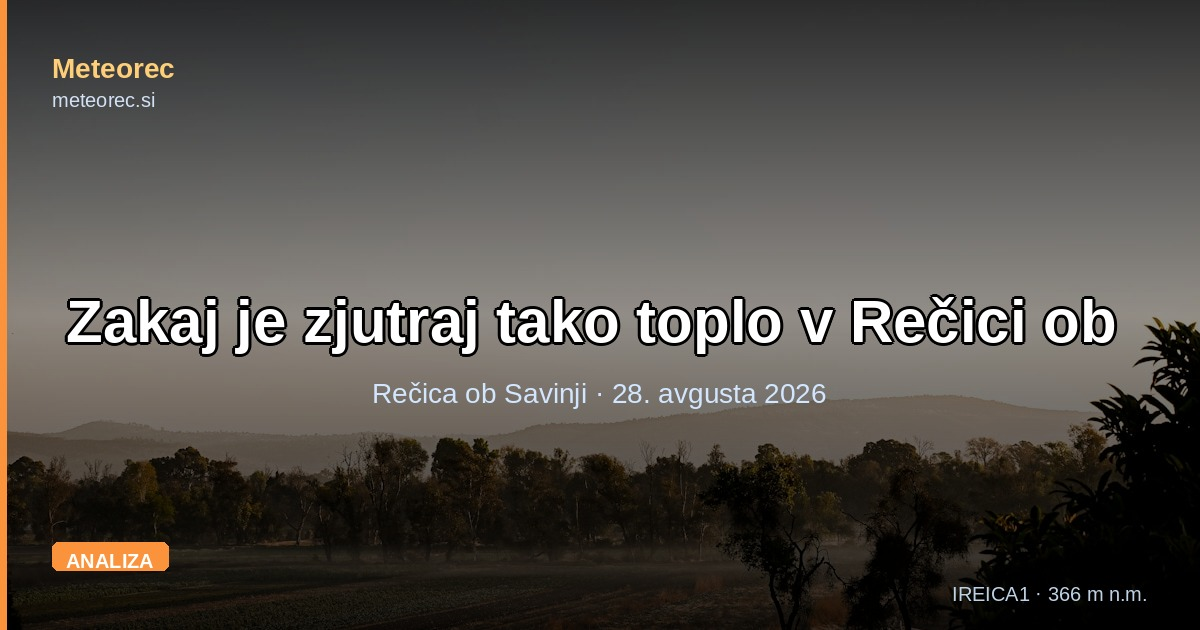
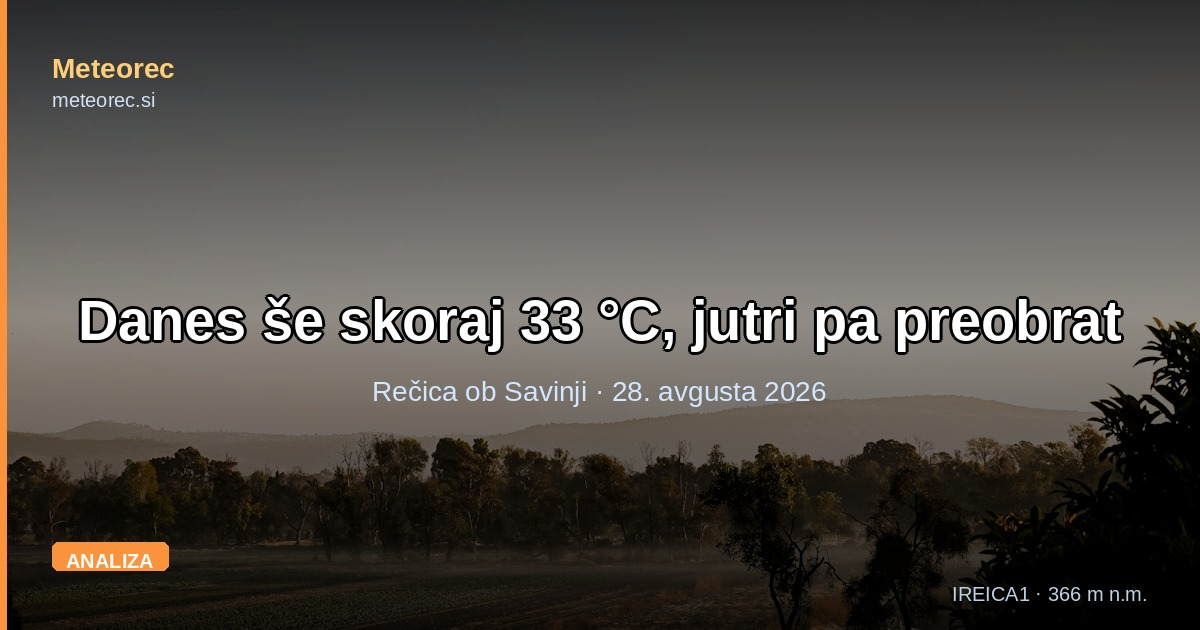
Nadomesti besedilo članka z lektorirano različico
Nov naslov/lead/odseki po lekturi (krajše, bolj naravne povedi), ohranjen
isti slug/URL. Ponovno vpisana notranja povezava na /temperatura/ in na
julijski članek o podobnem preobratu, ki ju je lektura sicer odstranila.
Ponovno pognan wire_all() (blog.json, sitemap, RSS, teme, sorodni članki)
in prigenerirana nova OG slika za spremenjeni naslov.

Changed region(s): [[0.0308, 0.4524, 0.9558, 0.573], [0.3083, 0.6032, 0.7092, 0.6635]]

diff --git a/blog/zakaj-je-zjutraj-tako-toplo-v-recici-ob-savinji-0828.html b/blog/zakaj-je-zjutraj-tako-toplo-v-recici-ob-savinji-0828.html
@@ -10,19 +10,19 @@
   gtag('config', 'G-LE8PJ1HR8B');
 </script>
 <meta name="viewport" content="width=device-width, initial-scale=1.0">
-<title>Zakaj je zjutraj tako toplo v Rečici ob Savinji? | Meteorec</title>
+<title>Danes še skoraj 33 °C, jutri pa preobrat | Meteorec</title>
 <link rel="canonical" href="https://meteorec.si/blog/zakaj-je-zjutraj-tako-toplo-v-recici-ob-savinji-0828.html">
 <link rel="alternate" hreflang="sl" href="https://meteorec.si/blog/zakaj-je-zjutraj-tako-toplo-v-recici-ob-savinji-0828.html">
 <link rel="alternate" hreflang="x-default" href="https://meteorec.si/blog/zakaj-je-zjutraj-tako-toplo-v-recici-ob-savinji-0828.html">
-<meta name="description" content="Zakaj je v Rečici ob Savinji že navsezgodaj toplo in vlažno, kaj prinaša vročinski vrh danes ter zakaj sobota prinese oster padec temperature do nedelje.">
+<meta name="description" content="Na Rečici ob Savinji je bilo že zgodaj zjutraj nenavadno toplo in soparno. Danes sledi vrhunec vročine pri 32,7 °C, v soboto pa padec za več kot osem stopinj.">
 <meta name="keywords" content="vreme, napoved, temperaturni trend, IREICA1, Zgornja Savinjska dolina">
 <meta name="robots" content="index, follow, max-image-preview:large">
 <meta name="author" content="Filip Eremita">
 <meta property="og:type" content="article">
 <meta property="og:url" content="https://meteorec.si/blog/zakaj-je-zjutraj-tako-toplo-v-recici-ob-savinji-0828.html">
 <meta property="og:site_name" content="Meteorec">
-<meta property="og:title" content="Zakaj je zjutraj tako toplo v Rečici ob Savinji?">
-<meta property="og:description" content="Zakaj je v Rečici ob Savinji že navsezgodaj toplo in vlažno, kaj prinaša vročinski vrh danes ter zakaj sobota prinese oster padec temperature do nedelje.">
+<meta property="og:title" content="Danes še skoraj 33 °C, jutri pa preobrat: na Rečici ob Savinji bo občutno hladneje">
+<meta property="og:description" content="Na Rečici ob Savinji je bilo že zgodaj zjutraj nenavadno toplo in soparno. Danes sledi vrhunec vročine pri 32,7 °C, v soboto pa padec za več kot osem stopinj.">
 <meta property="og:image" content="https://meteorec.si/og/zakaj-je-zjutraj-tako-toplo-v-recici-ob-savinji-0828.jpg">
 <meta property="og:image:width" content="1200">
 <meta property="og:image:height" content="630">
@@ -31,15 +31,15 @@
 <meta property="article:author" content="Filip Eremita">
 <meta property="article:section" content="Analiza">
 <meta name="twitter:card" content="summary_large_image">
-<meta name="twitter:title" content="Zakaj je zjutraj tako toplo v Rečici ob Savinji?">
-<meta name="twitter:description" content="Zakaj je v Rečici ob Savinji že navsezgodaj toplo in vlažno, kaj prinaša vročinski vrh danes ter zakaj sobota prinese oster padec temperature do nedelje.">
+<meta name="twitter:title" content="Danes še skoraj 33 °C, jutri pa preobrat: na Rečici ob Savinji bo občutno hladneje">
+<meta name="twitter:description" content="Na Rečici ob Savinji je bilo že zgodaj zjutraj nenavadno toplo in soparno. Danes sledi vrhunec vročine pri 32,7 °C, v soboto pa padec za več kot osem stopinj.">
 <meta name="twitter:image" content="https://meteorec.si/og/zakaj-je-zjutraj-tako-toplo-v-recici-ob-savinji-0828.jpg">
 <script type="application/ld+json">
 {
   "@context": "https://schema.org",
   "@type": "BlogPosting",
-  "headline": "Zakaj je zjutraj tako toplo v Rečici ob Savinji?",
-  "description": "Zakaj je v Rečici ob Savinji že navsezgodaj toplo in vlažno, kaj prinaša vročinski vrh danes ter zakaj sobota prinese oster padec temperature do nedelje.",
+  "headline": "Danes še skoraj 33 °C, jutri pa preobrat: na Rečici ob Savinji bo občutno hladneje",
+  "description": "Na Rečici ob Savinji je bilo že zgodaj zjutraj nenavadno toplo in soparno. Danes sledi vrhunec vročine pri 32,7 °C, v soboto pa padec za več kot osem stopinj.",
   "image": { "@type": "ImageObject", "url": "https://meteorec.si/og/zakaj-je-zjutraj-tako-toplo-v-recici-ob-savinji-0828.jpg", "width": 1200, "height": 630 },
   "datePublished": "2026-08-28",
   "dateModified": "2026-08-28",
@@ -58,7 +58,7 @@
   "itemListElement": [
     { "@type": "ListItem", "position": 1, "name": "Meteorec", "item": "https://meteorec.si/" },
     { "@type": "ListItem", "position": 2, "name": "Blog", "item": "https://meteorec.si/blog/" },
-    { "@type": "ListItem", "position": 3, "name": "Zakaj je zjutraj tako toplo v Rečici ob Savinji?" }
+    { "@type": "ListItem", "position": 3, "name": "Danes še skoraj 33 °C, jutri pa preobrat: na Rečici ob Savinji bo občutno hladneje" }
   ]
 }
 </script>
@@ -87,20 +87,20 @@
   </header>
 
   <nav class="crumbs" aria-label="Drobtine">
-    <a href="/">Meteorec</a> › <a href="/blog/">Blog</a> › Zakaj je zjutraj tako toplo v Rečici ob Savinji?
+    <a href="/">Meteorec</a> › <a href="/blog/">Blog</a> › Danes še skoraj 33 °C, jutri pa preobrat: na Rečici ob Savinji bo občutno hladneje
   </nav>
 
   <article>
     <div class="stn-badge"><span></span> IREICA1 · Rečica ob Savinji · Analiza</div>
-    <h1>Zakaj je zjutraj tako toplo v Rečici ob Savinji?</h1>
+    <h1>Danes še skoraj 33 °C, jutri pa preobrat: na Rečici ob Savinji bo občutno hladneje</h1>
     <p class="post-meta">28. avgusta 2026 · Filip Eremita</p>
 
-    <p class="lead">Ob 7.50 zjutraj postaja IREICA1 kaže <strong>18,8 °C</strong> ob 95-odstotni vlažnosti — za avgustovsko jutro v Rečici ob Savinji nenavadno toplo. Nočni minimum je bil le <strong>16,5 °C</strong>, čeprav dolina ob jasnem nebu ponoči praviloma shladi precej niže. Danes nas čaka vrh vročine pri 32,7 °C, potem pa oster preobrat: sobota prinese padec na 24,3 °C, nedelja pa delen povratek toplote na 27,4 °C.</p>
+    <p class="lead">Kdor je danes zjutraj stopil ven, je hitro opazil, da svežega avgustovskega jutra tokrat ni bilo. Ob 7.50 je postaja IREICA1 na Rečici ob Savinji izmerila 18,8 °C, vlažnost pa je bila kar 95-odstotna. Ponoči se je temperatura spustila le do 16,5 °C. Čez dan bo še precej bolj vroče, saj naj bi se ogrelo do 32,7 °C. A vročina ne bo trajala dolgo — že v soboto sledi občutna ohladitev.</p>
 
     <div class="stat-grid">
       <div class="stat-card c-cool">
         <div class="sc-label">Trenutna temperatura</div>
-        <div class="sc-val">18,9</div>
+        <div class="sc-val">20,6</div>
         <div class="sc-sub">°C · postaja IREICA1</div>
       </div>
       <div class="stat-card c-rain">
@@ -110,7 +110,7 @@
       </div>
       <div class="stat-card c-green">
         <div class="sc-label">Vlažnost</div>
-        <div class="sc-val">95</div>
+        <div class="sc-val">91</div>
         <div class="sc-sub">%</div>
       </div>
       <div class="stat-card c-dry">
@@ -132,33 +132,46 @@
       <figcaption>Ilustrativna fotografija. Foto: Winniepix (Openverse, licenca BY).</figcaption>
     </figure>
 
-    <span class="section-label">01 — toplo jutro</span>
-    <h2 id="nocni-minimum">Nočni minimum le 16,5 °C</h2>
-    <p>Skozi celo noč je vlažnost na postaji ostajala med 95 in 99 %, rosišče pa je ves čas sledilo temperaturi na manj kot stopinjo razlike — zrak je bil praktično nasičen z vlago. Temperatura je od polnoči (18,8 °C) počasi padala do najnižje vrednosti 16,5 °C okoli 6. ure zjutraj, nato pa je s prvim soncem že spet stekla navzgor.</p>
-    <p>Veter je bil vso noč šibek in je pihal pretežno z juga do jugozahoda (okoli 180–230°) — smer, iz katere v dolino pogosto priteka toplejši in vlažnejši zrak pred spremembo vremena.</p>
+    <span class="section-label">01 — ponoči brez ohlajanja</span>
+    <h2 id="ponoci-brez-ohlajanja">Ponoči se skoraj ni ohladilo</h2>
+    <p>Vso noč je bila vlažnost zelo visoka, med 95 in 99 odstotki. Tudi rosišče je bilo ves čas tik ob dejanski temperaturi, kar pomeni, da je bil zrak praktično nasičen z vlago.</p>
+    <p>Ob polnoči je bilo še 18,8 °C, nato pa je temperatura počasi padala. Najnižjo vrednost, 16,5 °C, je dosegla okoli 6. ure zjutraj. Ko je posijalo sonce, se je temperatura hitro začela spet dvigovati.</p>
+    <p>Veter je bil ponoči šibek in je večinoma pihal z juga oziroma jugozahoda. Prav iz te smeri pred spremembo vremena pogosto priteka toplejši in bolj vlažen zrak.</p>
 
-    <span class="section-label">02 — zakaj se dolina ni ohladila</span>
-    <h2 id="zakaj-toplo">Oblaki in vlaga kot odeja čez dolino</h2>
-    <p>Ob jasnem nebu tla ponoči hitro izsevajo toploto navzgor in Rečica ob Savinji se kot vsaka dolina ob dnu shladi bolj kot okoliški hribi. Nasičen, vlažen zrak in nizka oblačnost delujeta nasprotno: ujameta del te toplote in jo vrneta nazaj proti tlom, zato ohlajanje obstane precej prej kot v suhi in jasni noči.</p>
-    <p>Rezultat je jutro, ki se počuti bolj poletno soparno kot sveže, čeprav termometer ne kaže ekstrema. Kdor pozna <a href="/temperatura/" style="color:var(--blue)">temperaturno statistiko</a> postaje, ve, da so avgustovska jutra pri jasnem nebu v dolini običajno hladnejša za 5 do 8 stopinj od tega, kar smo izmerili danes.</p>
+    <span class="section-label">02 — zakaj soparno</span>
+    <h2 id="zakaj-soparno">Zakaj je bilo jutro tako soparno?</h2>
+    <p>Na Rečici ob Savinji se ob jasnih nočeh običajno precej dobro ohladi. Dolina ponoči hitro izgublja toploto, zato so lahko jutra tudi sredi poletja prijetno sveža.</p>
+    <p>Tokrat pa je bilo drugače. Zelo vlažen zrak in nizka oblačnost sta delovala kot nekakšna odeja nad dolino. Toplota se ponoči zato ni mogla tako hitro izgubljati, posledica pa je bilo toplo in soparno jutro.</p>
+    <p>Čeprav 18 ali 19 stopinj na prvi pogled ne zveni nič posebnega, je ob 95-odstotni vlagi občutek precej drugačen. Zrak je težji, bolj soparen in precej manj svež, kot smo ga na Rečici ob Savinji vajeni ob avgustovskih jutrih.</p>
+    <p>Ob jasnem vremenu so jutranje temperature pri nas — kot kaže tudi <a href="/temperatura/" style="color:var(--blue)">temperaturna statistika</a> postaje — pogosto tudi za 5 do 8 stopinj nižje.</p>
 
-    <span class="section-label">03 — sobota prinaša preobrat</span>
-    <h2 id="sobota-preobrat">Po vročinskem vrhu oster padec na 24,3 °C</h2>
-    <p>Danes bo kljub toplemu začetku dneva pravi vročinski vrh tega tedna — Open-Meteo za Rečico ob Savinji napoveduje do 32,7 °C. To je zadnji res vroč dan za nekaj časa: v noči na soboto je pričakovana šibka padavinska epizoda (25-odstotna verjetnost, okoli 0,5 mm), ki spremlja spremembo vremena, sobotni vrh dneva pa se posledično zniža na le 24,3 °C — več kot 8 stopinj manj kot danes.</p>
-    <p>Tak nenaden padec po vročem dnevu ni prvi v tem poletju — podoben preobrat smo v dolini opisali že v članku <a href="/blog/temperaturni-trend-v-savinjski-dolini-od-28-9-c-danes-do-hla-0719.html" style="color:var(--blue)">o julijskem padcu s 28,9 °C proti ohladitvi</a> — vzorec kratkega, ostrega preobrata je za Savinjsko dolino poleti razmeroma pogost.</p>
+    <span class="section-label">03 — vrhunec vročine</span>
+    <h2 id="vrhunec-vrocine">Danes vrhunec vročine pri 32,7 °C</h2>
+    <p>Danes bo najverjetneje najbolj vroč dan tega tedna. Po napovedi Open-Meteo naj bi se na Rečici ob Savinji segrelo vse do 32,7 °C.</p>
+    <p>Že v noči na soboto pa prihaja vremenska sprememba. Možen je tudi rahel dež, verjetnost padavin je okoli 25 odstotkov, pričakovana količina pa majhna, približno 0,5 mm.</p>
+    <p>Še precej bolj opazen bo padec temperature.</p>
+    <p>V soboto naj bi se ogrelo le do 24,3 °C. To pomeni več kot osem stopinj manj kot danes.</p>
+    <p>Po današnji vročini bo razlika še kako občutna.</p>
+    <p>Takšni hitri poletni preobrati v Savinjski dolini sicer niso nič nenavadnega. Vročemu dnevu lahko ob prihodu hladnejšega zraka že v nekaj urah sledi precej bolj sveže vreme. Podoben, še bolj oster preobrat smo opisali že <a href="/blog/temperaturni-trend-v-savinjski-dolini-od-28-9-c-danes-do-hla-0719.html" style="color:var(--blue)">v julijskem članku o padcu s 28,9 °C proti ohladitvi</a>.</p>
 
-    <span class="section-label">04 — nedelja: delen povratek toplote</span>
-    <h2 id="nedelja">Nedelja spet nad 27 °C, a brez soparnosti</h2>
-    <p>Po sobotnem padcu napoved kaže postopno okrevanje: nedeljski vrh naj bi znašal 27,4 °C, dan naj bi ostal suh, veter pa precej šibkejši kot danes (do 8,4 km/h namesto današnjih 15,8 km/h). Tudi jutranje temperature ostanejo v soboto in nedeljo podobne, okoli 16 °C, brez tako izrazite soparnosti, kot je bila značilna za današnje jutro.</p>
-    <p>Ponedeljek nadaljuje v podobnem, malce toplejšem tonu (27,7 °C), tako da gre bolj za kratek vmesni preobrat kot za trajen konec poletne vročine.</p>
+    <span class="section-label">04 — kratka ohladitev</span>
+    <h2 id="kratka-ohladitev">Ohladitev bo kratka: v nedeljo spet nad 27 °C</h2>
+    <p>Kdor se boji, da sobotna ohladitev pomeni konec poletja, je lahko za zdaj miren.</p>
+    <p>Že v nedeljo naj bi se na Rečici ob Savinji znova ogrelo do okoli 27,4 °C, vreme pa naj bi ostalo suho.</p>
+    <p>Tudi veter bo precej šibkejši. Danes lahko doseže okoli 15,8 km/h, v nedeljo pa naj bi pihal le do približno 8,4 km/h.</p>
+    <p>Jutranje temperature bodo še naprej okoli 16 °C, vendar naj bi bilo precej manj soparno kot danes.</p>
+    <p>Tudi ponedeljek bo topel. Napoved trenutno kaže okoli 27,7 °C, zato sobotna ohladitev za zdaj deluje predvsem kot kratek premor med vročimi dnevi.</p>
 
-    <span class="section-label">05 — kaj to pomeni za nas</span>
-    <h2 id="kaj-pricakovati">Kaj pričakovati do konca tedna v Rečici ob Savinji</h2>
-    <p>Za danes velja: to je najbolj vroč in najbolj soparen dan tega tedna, zato je smiselno vročinske opravke — delo na vrtu, daljši izlet — opraviti v jutranjih ali večernih urah in poskrbeti za dovolj tekočine.</p>
-    <p>V soboto zjutraj je mogoč kratek dež ob prehodu spremembe, čez dan pa bo občutno svežje — dobra priložnost za tiste, ki so vročino čakali, da postorijo kaj na prostem. Nedelja prinese vrnitev k toplejšemu, a bolj znosnemu vremenu brez današnje soparnosti.</p>
+    <span class="section-label">05 — kaj nas čaka</span>
+    <h2 id="kaj-nas-caka">Kaj nas torej čaka do konca tedna?</h2>
+    <p>Danes bo na Rečici ob Savinji vroče in soparno. Če imate v načrtu delo na vrtu, daljši sprehod, izlet ali druga opravila na prostem, jih je bolje opraviti zjutraj ali proti večeru.</p>
+    <p>Čez dan se bo temperatura približala 33 stopinjam, zato bo predvsem sredi dneva vročina precej izrazita.</p>
+    <p>V soboto bo slika povsem drugačna. Zjutraj je možen rahel dež, čez dan pa se bo temperatura ustavila pri približno 24 °C.</p>
+    <p>Nedelja nato spet prinaša bolj poletnih 27 °C in suho vreme.</p>
+    <p>Skratka: danes še prava vročina, jutri občutno hladneje, nato pa se poletje hitro vrača.</p>
 
     <div class="callout">
-      <p><strong>Napoved na kratko:</strong> Danes vrh vročine pri 32,7 °C ob soparnem jutru, v noči na soboto šibek dež in padec na 24,3 °C, v nedeljo suho in nazaj na 27,4 °C.</p>
+      <p><strong>Napoved na kratko:</strong> Danes na Rečici ob Savinji do 32,7 °C in zelo soparno, v noči na soboto možnost rahlega dežja, v soboto padec na 24,3 °C, v nedeljo pa ponovno okoli 27,4 °C.</p>
     </div>
 
     <p style="color:var(--muted);font-size:.9rem;margin-top:2rem">Podatki: osebna meteorološka postaja IREICA1 (Rečica ob Savinji) in 4-dnevna napoved Open-Meteo.</p>
@@ -174,7 +187,7 @@
   <!-- sorodni:start — samodejno, wire_all(); ne urejaj ročno -->
   <section class="related-posts">
     <h2 class="related-title">Sorodni članki</h2>
-    <div class="related-grid"><a class="related-card" href="/blog/napoved-za-ta-teden-v-savinjski-dolini-vroca-sobota-dez-se-v-0720.html"><span class="related-date">20. julija 2026</span><span class="related-h">Napoved za ta teden v Savinjski dolini: vroča sobota, dež se vrne v nedeljo</span><span class="related-sum">Vremenska napoved za teden od 20. do 26. julija v Rečici ob Savinji: stabilno v ponedeljek in torek, dež v četrtek, vroč…</span></a><a class="related-card" href="/blog/temperaturni-trend-v-savinjski-dolini-od-28-9-c-danes-do-hla-0719.html"><span class="related-date">19. julija 2026</span><span class="related-h">Temperaturni trend v Savinjski dolini: od 28,9 °C danes do hladnejšega konca tedna</span><span class="related-sum">Temperaturni trend v Savinjski dolini kaže jasno ohladitev: po 28,9 °C danes bo do konca tedna v Rečici ob Savinji občut…</span></a><a class="related-card" href="/blog/danes-vrh-vrocine-32-4-c-v-zgornji-savinjski-dolini-nato-ohl-0717.html"><span class="related-date">17. julija 2026</span><span class="related-h">Danes vrh vročine: 32,4 °C v Zgornji Savinjski dolini, nato ohladitev z dežjem</span><span class="related-sum">Danes na Rečici ob Savinji pričakujemo do 32,4 °C, nato pa se vročinski val prelomi – v naslednjih dneh dež in občutno h…</span></a></div>
+    <div class="related-grid"><a class="related-card" href="/blog/danes-vrh-vrocine-32-4-c-v-zgornji-savinjski-dolini-nato-ohl-0717.html"><span class="related-date">17. julija 2026</span><span class="related-h">Danes vrh vročine: 32,4 °C v Zgornji Savinjski dolini, nato ohladitev z dežjem</span><span class="related-sum">Danes na Rečici ob Savinji pričakujemo do 32,4 °C, nato pa se vročinski val prelomi – v naslednjih dneh dež in občutno h…</span></a><a class="related-card" href="/blog/temperaturni-trend-v-savinjski-dolini-od-28-9-c-danes-do-hla-0719.html"><span class="related-date">19. julija 2026</span><span class="related-h">Temperaturni trend v Savinjski dolini: od 28,9 °C danes do hladnejšega konca tedna</span><span class="related-sum">Temperaturni trend v Savinjski dolini kaže jasno ohladitev: po 28,9 °C danes bo do konca tedna v Rečici ob Savinji občut…</span></a><a class="related-card" href="/blog/31-5-c-danes-v-recici-ob-savinji-nato-obrat-dez-in-ohladitev-0713.html"><span class="related-date">13. julija 2026</span><span class="related-h">31,5 °C danes na Rečici ob Savinji, nato obrat: dež in ohladitev do konca tedna</span><span class="related-sum">Postaja IREICA1 danes kaže vročino do 31,5 °C, občuten pa je še višji zaradi vlage. Napoved za naslednje dni prinaša dež…</span></a></div>
   </section>
   <!-- sorodni:end -->
 

diff --git a/blog/test-napovedi-2026-07.html b/blog/test-napovedi-2026-07.html
@@ -103,7 +103,7 @@
   <!-- sorodni:start — samodejno, wire_all(); ne urejaj ročno -->
   <section class="related-posts">
     <h2 class="related-title">Sorodni članki</h2>
-    <div class="related-grid"><a class="related-card" href="/blog/koliko-bo-danes-zalilo-primerjava-modelov-0807.html"><span class="related-date">7. avgusta 2026</span><span class="related-h">Koliko bo danes zalilo v Rečici? Primerjava modelov</span><span class="related-sum">Postaja IREICA1 je zjutraj še suha. ARSO za danes napoveduje 31,8 mm in možnost neviht, ICON komaj 0,4 mm. Primerjava še…</span></a><a class="related-card" href="/blog/dez-v-cetrtek-ali-petek-viri-se-ne-strinjajo-o-dnevu-0819.html"><span class="related-date">19. avgusta 2026</span><span class="related-h">Dež v četrtek ali petek? Viri se ne strinjajo o dnevu</span><span class="related-sum">Enajst napovedi za četrtek in petek: v četrtek od 0,0 do 17,8 mm, v petek od 0,3 do 47,5 mm. Grafi primerjajo dneva, ure…</span></a><a class="related-card" href="/blog/tedenska-napoved-24-28-avgust-2026.html"><span class="related-date">23. avgusta 2026</span><span class="related-h">Napoved za teden 24.–28. avgusta: torek uganka, petek vroč in vetroven</span><span class="related-sum">Šest modelov, ARSO in domači MTR za teden 24.–28. avgusta v Zgornji Savinjski dolini: torek je velika uganka, petek vroč…</span></a></div>
+    <div class="related-grid"><a class="related-card" href="/blog/koliko-bo-danes-zalilo-primerjava-modelov-0807.html"><span class="related-date">7. avgusta 2026</span><span class="related-h">Koliko bo danes zalilo v Rečici? Primerjava modelov</span><span class="related-sum">Postaja IREICA1 je zjutraj še suha. ARSO za danes napoveduje 31,8 mm in možnost neviht, ICON komaj 0,4 mm. Primerjava še…</span></a><a class="related-card" href="/blog/tedenska-napoved-24-28-avgust-2026.html"><span class="related-date">23. avgusta 2026</span><span class="related-h">Napoved za teden 24.–28. avgusta: torek uganka, petek vroč in vetroven</span><span class="related-sum">Šest modelov, ARSO in domači MTR za teden 24.–28. avgusta v Zgornji Savinjski dolini: torek je velika uganka, petek vroč…</span></a><a class="related-card" href="/blog/dez-v-cetrtek-ali-petek-viri-se-ne-strinjajo-o-dnevu-0819.html"><span class="related-date">19. avgusta 2026</span><span class="related-h">Dež v četrtek ali petek? Viri se ne strinjajo o dnevu</span><span class="related-sum">Enajst napovedi za četrtek in petek: v četrtek od 0,0 do 17,8 mm, v petek od 0,3 do 47,5 mm. Grafi primerjajo dneva, ure…</span></a></div>
   </section>
   <!-- sorodni:end -->
 

diff --git a/blog/tema/ireica1/index.html b/blog/tema/ireica1/index.html
@@ -45,11 +45,11 @@
   <ul class="post-list">
     <li>
       <a class="post-card" href="/blog/zakaj-je-zjutraj-tako-toplo-v-recici-ob-savinji-0828.html">
-        <img class="post-thumb" src="/og/zakaj-je-zjutraj-tako-toplo-v-recici-ob-savinji-0828.jpg" alt="Zakaj je zjutraj tako toplo v Rečici ob Savinji?" width="260" height="260" loading="eager" fetchpriority="high">
+        <img class="post-thumb" src="/og/zakaj-je-zjutraj-tako-toplo-v-recici-ob-savinji-0828.jpg" alt="Danes še skoraj 33 °C, jutri pa preobrat: na Rečici ob Savinji bo občutno hladneje" width="260" height="260" loading="eager" fetchpriority="high">
         <div class="post-card-body">
           <div class="date">28. avgusta 2026</div>
-          <h2>Zakaj je zjutraj tako toplo v Rečici ob Savinji?</h2>
-          <p>Zakaj je v Rečici ob Savinji že navsezgodaj toplo in vlažno, kaj prinaša vročinski vrh danes ter zakaj sobota prinese oster padec temperature do nedelje.</p>
+          <h2>Danes še skoraj 33 °C, jutri pa preobrat: na Rečici ob Savinji bo občutno hladneje</h2>
+          <p>Na Rečici ob Savinji je bilo že zgodaj zjutraj nenavadno toplo in soparno. Danes sledi vrhunec vročine pri 32,7 °C, v soboto pa padec za več kot osem stopinj.</p>
         </div>
       </a>
     </li>

diff --git a/blog/tema/napoved/index.html b/blog/tema/napoved/index.html
@@ -45,11 +45,11 @@
   <ul class="post-list">
     <li>
       <a class="post-card" href="/blog/zakaj-je-zjutraj-tako-toplo-v-recici-ob-savinji-0828.html">
-        <img class="post-thumb" src="/og/zakaj-je-zjutraj-tako-toplo-v-recici-ob-savinji-0828.jpg" alt="Zakaj je zjutraj tako toplo v Rečici ob Savinji?" width="260" height="260" loading="eager" fetchpriority="high">
+        <img class="post-thumb" src="/og/zakaj-je-zjutraj-tako-toplo-v-recici-ob-savinji-0828.jpg" alt="Danes še skoraj 33 °C, jutri pa preobrat: na Rečici ob Savinji bo občutno hladneje" width="260" height="260" loading="eager" fetchpriority="high">
         <div class="post-card-body">
           <div class="date">28. avgusta 2026</div>
-          <h2>Zakaj je zjutraj tako toplo v Rečici ob Savinji?</h2>
-          <p>Zakaj je v Rečici ob Savinji že navsezgodaj toplo in vlažno, kaj prinaša vročinski vrh danes ter zakaj sobota prinese oster padec temperature do nedelje.</p>
+          <h2>Danes še skoraj 33 °C, jutri pa preobrat: na Rečici ob Savinji bo občutno hladneje</h2>
+          <p>Na Rečici ob Savinji je bilo že zgodaj zjutraj nenavadno toplo in soparno. Danes sledi vrhunec vročine pri 32,7 °C, v soboto pa padec za več kot osem stopinj.</p>
         </div>
       </a>
     </li>

diff --git a/blog/tema/temperaturni-trend/index.html b/blog/tema/temperaturni-trend/index.html
@@ -45,11 +45,11 @@
   <ul class="post-list">
     <li>
       <a class="post-card" href="/blog/zakaj-je-zjutraj-tako-toplo-v-recici-ob-savinji-0828.html">
-        <img class="post-thumb" src="/og/zakaj-je-zjutraj-tako-toplo-v-recici-ob-savinji-0828.jpg" alt="Zakaj je zjutraj tako toplo v Rečici ob Savinji?" width="260" height="260" loading="eager" fetchpriority="high">
+        <img class="post-thumb" src="/og/zakaj-je-zjutraj-tako-toplo-v-recici-ob-savinji-0828.jpg" alt="Danes še skoraj 33 °C, jutri pa preobrat: na Rečici ob Savinji bo občutno hladneje" width="260" height="260" loading="eager" fetchpriority="high">
         <div class="post-card-body">
           <div class="date">28. avgusta 2026</div>
-          <h2>Zakaj je zjutraj tako toplo v Rečici ob Savinji?</h2>
-          <p>Zakaj je v Rečici ob Savinji že navsezgodaj toplo in vlažno, kaj prinaša vročinski vrh danes ter zakaj sobota prinese oster padec temperature do nedelje.</p>
+          <h2>Danes še skoraj 33 °C, jutri pa preobrat: na Rečici ob Savinji bo občutno hladneje</h2>
+          <p>Na Rečici ob Savinji je bilo že zgodaj zjutraj nenavadno toplo in soparno. Danes sledi vrhunec vročine pri 32,7 °C, v soboto pa padec za več kot osem stopinj.</p>
         </div>
       </a>
     </li>

diff --git a/blog/tema/vreme/index.html b/blog/tema/vreme/index.html
@@ -45,11 +45,11 @@
   <ul class="post-list">
     <li>
       <a class="post-card" href="/blog/zakaj-je-zjutraj-tako-toplo-v-recici-ob-savinji-0828.html">
-        <img class="post-thumb" src="/og/zakaj-je-zjutraj-tako-toplo-v-recici-ob-savinji-0828.jpg" alt="Zakaj je zjutraj tako toplo v Rečici ob Savinji?" width="260" height="260" loading="eager" fetchpriority="high">
+        <img class="post-thumb" src="/og/zakaj-je-zjutraj-tako-toplo-v-recici-ob-savinji-0828.jpg" alt="Danes še skoraj 33 °C, jutri pa preobrat: na Rečici ob Savinji bo občutno hladneje" width="260" height="260" loading="eager" fetchpriority="high">
         <div class="post-card-body">
           <div class="date">28. avgusta 2026</div>
-          <h2>Zakaj je zjutraj tako toplo v Rečici ob Savinji?</h2>
-          <p>Zakaj je v Rečici ob Savinji že navsezgodaj toplo in vlažno, kaj prinaša vročinski vrh danes ter zakaj sobota prinese oster padec temperature do nedelje.</p>
+          <h2>Danes še skoraj 33 °C, jutri pa preobrat: na Rečici ob Savinji bo občutno hladneje</h2>
+          <p>Na Rečici ob Savinji je bilo že zgodaj zjutraj nenavadno toplo in soparno. Danes sledi vrhunec vročine pri 32,7 °C, v soboto pa padec za več kot osem stopinj.</p>
         </div>
       </a>
     </li>

diff --git a/blog/tema/zgornja-savinjska-dolina/index.html b/blog/tema/zgornja-savinjska-dolina/index.html
@@ -45,11 +45,11 @@
   <ul class="post-list">
     <li>
       <a class="post-card" href="/blog/zakaj-je-zjutraj-tako-toplo-v-recici-ob-savinji-0828.html">
-        <img class="post-thumb" src="/og/zakaj-je-zjutraj-tako-toplo-v-recici-ob-savinji-0828.jpg" alt="Zakaj je zjutraj tako toplo v Rečici ob Savinji?" width="260" height="260" loading="eager" fetchpriority="high">
+        <img class="post-thumb" src="/og/zakaj-je-zjutraj-tako-toplo-v-recici-ob-savinji-0828.jpg" alt="Danes še skoraj 33 °C, jutri pa preobrat: na Rečici ob Savinji bo občutno hladneje" width="260" height="260" loading="eager" fetchpriority="high">
         <div class="post-card-body">
           <div class="date">28. avgusta 2026</div>
-          <h2>Zakaj je zjutraj tako toplo v Rečici ob Savinji?</h2>
-          <p>Zakaj je v Rečici ob Savinji že navsezgodaj toplo in vlažno, kaj prinaša vročinski vrh danes ter zakaj sobota prinese oster padec temperature do nedelje.</p>
+          <h2>Danes še skoraj 33 °C, jutri pa preobrat: na Rečici ob Savinji bo občutno hladneje</h2>
+          <p>Na Rečici ob Savinji je bilo že zgodaj zjutraj nenavadno toplo in soparno. Danes sledi vrhunec vročine pri 32,7 °C, v soboto pa padec za več kot osem stopinj.</p>
         </div>
       </a>
     </li>

diff --git a/blog/index.html b/blog/index.html
@@ -250,11 +250,11 @@
   <ul class="post-list">
     <li>
       <a class="post-card" href="zakaj-je-zjutraj-tako-toplo-v-recici-ob-savinji-0828.html">
-        <img class="post-thumb" src="/og/zakaj-je-zjutraj-tako-toplo-v-recici-ob-savinji-0828.jpg" alt="Zakaj je zjutraj tako toplo v Rečici ob Savinji?" width="260" height="260" loading="eager" fetchpriority="high">
+        <img class="post-thumb" src="/og/zakaj-je-zjutraj-tako-toplo-v-recici-ob-savinji-0828.jpg" alt="Danes še skoraj 33 °C, jutri pa preobrat: na Rečici ob Savinji bo občutno hladneje" width="260" height="260" loading="eager" fetchpriority="high">
         <div class="post-card-body">
           <div class="date">28. avgusta 2026</div>
-          <h2>Zakaj je zjutraj tako toplo v Rečici ob Savinji?</h2>
-          <p>Zakaj je v Rečici ob Savinji že navsezgodaj toplo in vlažno, kaj prinaša vročinski vrh danes ter zakaj sobota prinese oster padec temperature do nedelje.</p>
+          <h2>Danes še skoraj 33 °C, jutri pa preobrat: na Rečici ob Savinji bo občutno hladneje</h2>
+          <p>Na Rečici ob Savinji je bilo že zgodaj zjutraj nenavadno toplo in soparno. Danes sledi vrhunec vročine pri 32,7 °C, v soboto pa padec za več kot osem stopinj.</p>
         </div>
       </a>
     </li>
